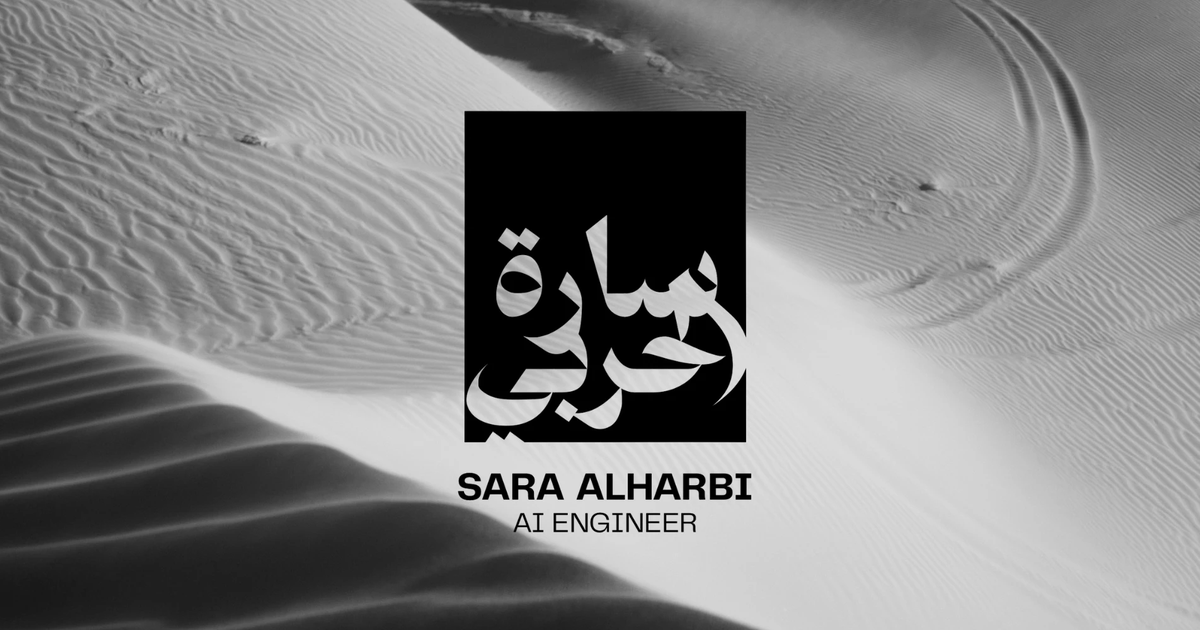
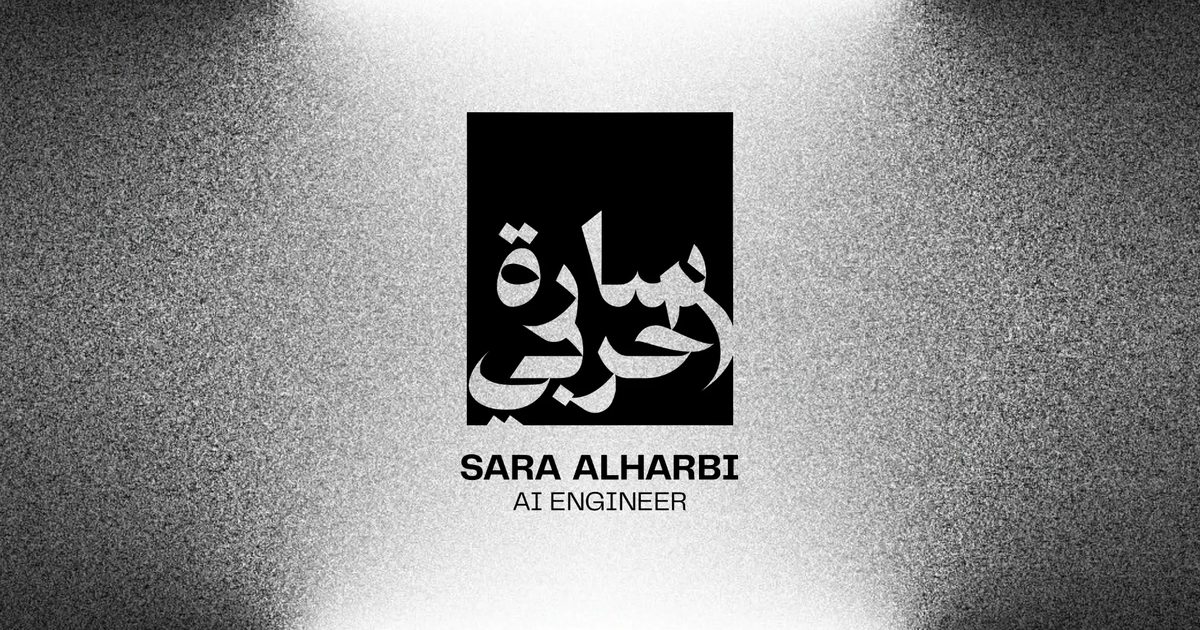
Geometric-light intro, interlude and OG image

diff --git a/frontend/index.html b/frontend/index.html
@@ -19,23 +19,23 @@
   <meta property="og:description" content="مهندسة برمجيات وأخصائية ذكاء اصطناعي — اسأل المساعد الذكي عن مشاريعي ومهاراتي." />
   <meta property="og:type" content="website" />
   <meta property="og:url" content="https://saraai.site/" />
-  <meta property="og:image" content="https://saraai.site/img/og-image.png?v=6" />
+  <meta property="og:image" content="https://saraai.site/img/og-image.png?v=7" />
   <meta property="og:image:width" content="1200" />
   <meta property="og:image:height" content="630" />
   <meta name="twitter:card" content="summary_large_image" />
-  <meta name="twitter:image" content="https://saraai.site/img/og-image.png?v=6" />
+  <meta name="twitter:image" content="https://saraai.site/img/og-image.png?v=7" />
 
   <link rel="preconnect" href="https://fonts.googleapis.com" />
   <link rel="preconnect" href="https://fonts.gstatic.com" crossorigin />
   <link href="https://fonts.googleapis.com/css2?family=Cairo:wght@600;700;800;900&family=IBM+Plex+Sans+Arabic:wght@300;400;500;600&family=Inter:wght@400;500;600;800&display=swap" rel="stylesheet" />
 
-  <link rel="stylesheet" href="css/styles.css?v=20261018" />
+  <link rel="stylesheet" href="css/styles.css?v=20261019" />
 </head>
 <body>
   
   <div class="intro" id="intro" aria-hidden="true">
     <div class="intro-inner" dir="ltr">
-      <div class="intro-art"><img class="intro-logo" src="img/logo-letters-white.png" alt="" /></div>
+      <div class="intro-art"><img class="intro-logo" src="img/logo-letters-black.png" alt="" /></div>
       <p class="intro-name" lang="en">Sara Alharbi</p>
       <p class="intro-meta" lang="en"><span>Artificial Intelligence</span><span>Est. 2026</span></p>
     </div>
@@ -194,7 +194,7 @@
       </div>
     </section>
 
-    <div class="interlude pos-center" style="--dune:url(/img/dune-c.jpg)" aria-hidden="true">
+    <div class="interlude interlude-light pos-center" style="--dune:url(/img/light-wide.jpg)" aria-hidden="true">
       <p class="interlude-text"><span class="interlude-n" lang="en">03</span><span data-en="Tools I master">أدوات أتقنها</span></p>
     </div>
 
@@ -343,7 +343,7 @@
     </div>
   </footer>
 
-  <script src="js/config.js?v=20261018"></script>
-  <script src="js/main.js?v=20261018"></script>
+  <script src="js/config.js?v=20261019"></script>
+  <script src="js/main.js?v=20261019"></script>
 </body>
 </html>

diff --git a/frontend/css/styles.css b/frontend/css/styles.css
@@ -577,3 +577,15 @@ html[lang="en"] .interlude-text { font-family: var(--f-sans); font-weight: 800; 
 #skills .section-lead { color: #3d3d3d !important; }
 #skills .section-num { background: var(--ink) !important; color: #fff !important; border-color: var(--ink) !important; }
 #skills .skill-group { background: var(--ink) !important; color: #fff; }
+
+
+/* =========================================================
+   Geometric-light style (intro + one interlude)
+   ========================================================= */
+.intro { background: #0B0B0B url("/img/light.jpg") center / cover no-repeat; }
+.intro-name, .intro-meta { color: #0B0B0B; }
+.intro-name { font-weight: 800; }
+.intro-meta { opacity: .75; }
+.interlude-light { background: linear-gradient(#0B0B0B, #0B0B0B) , var(--dune) center / cover no-repeat; background: var(--dune) center / cover no-repeat, #0B0B0B; background-attachment: scroll; min-height: clamp(280px, 52vh, 520px); }
+.interlude-light .interlude-text { color: #0B0B0B; text-shadow: none; max-width: 22ch; }
+.interlude-light .interlude-n { color: #0B0B0B; }
